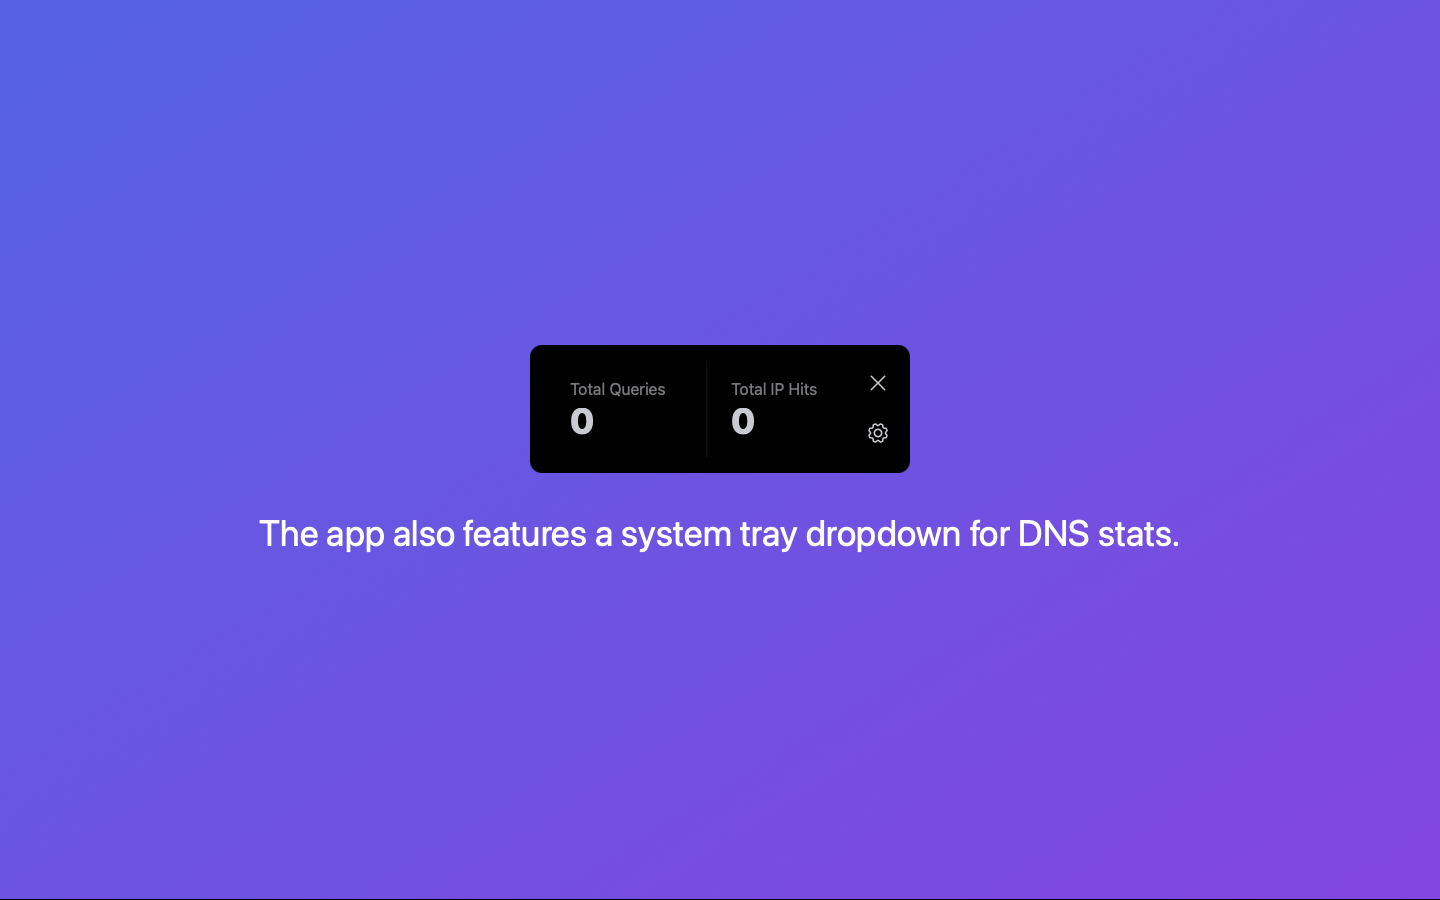
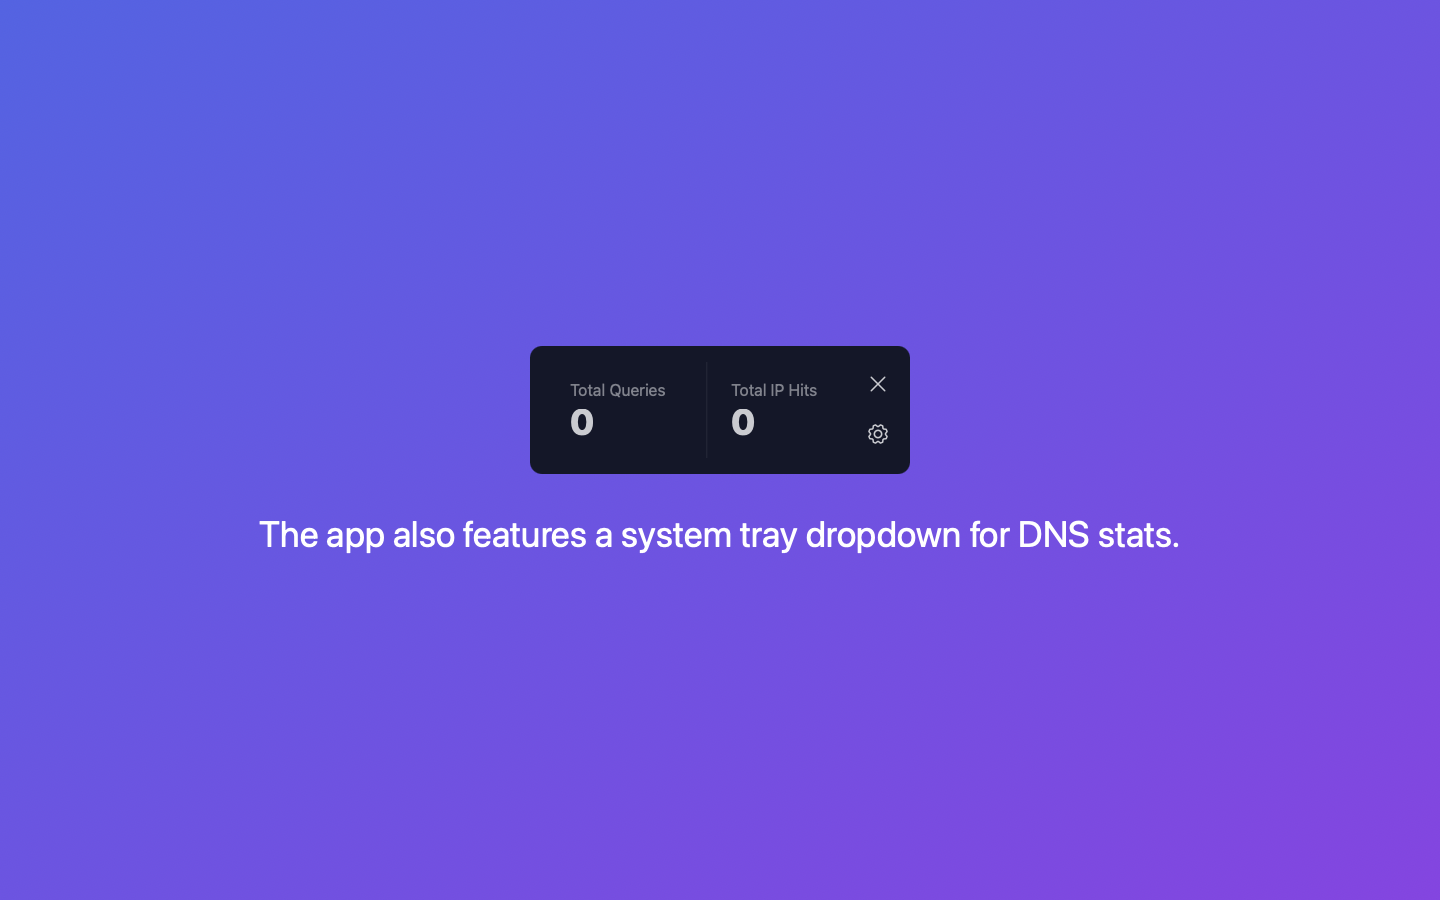
Release v0.3.0

diff --git a/profile/README.md b/profile/README.md
@@ -58,6 +58,13 @@ Serve your smart hosts file as a DNS server.
 
 ## Changelogs
 
+### v0.3.0
+
+- **SSID**: Supports Unix shell-style wildcard matching
+- **Tray UI**: Updated background color
+- **Third-Party Dependencies**: Upgraded several libraries,
+  including **Leptos** from 0.6 to 0.7.1
+
 ### v0.2.1
 
 - Add IAP items in App Store Connect
@@ -71,4 +78,3 @@ Serve your smart hosts file as a DNS server.
 - Optimized UI layout by dividing it into two configuration tabs:
   General Settings and Hosts File Editing
 - Updated multiple third-party dependencies
-

diff --git a/profile/README.zh.md b/profile/README.zh.md
@@ -56,6 +56,12 @@
 
 ## 变更日志
 
+### v0.3.0
+
+- SSID 支持 Unix Shell Style 通配符匹配
+- 更新 Tray UI 的背景颜色
+- 更新多个第三方依赖。主要是 Leptos 从 0.6 升级至 0.7.1
+
 ### v0.2.1
 
 - App Store Connect 添加 IAP 项目
